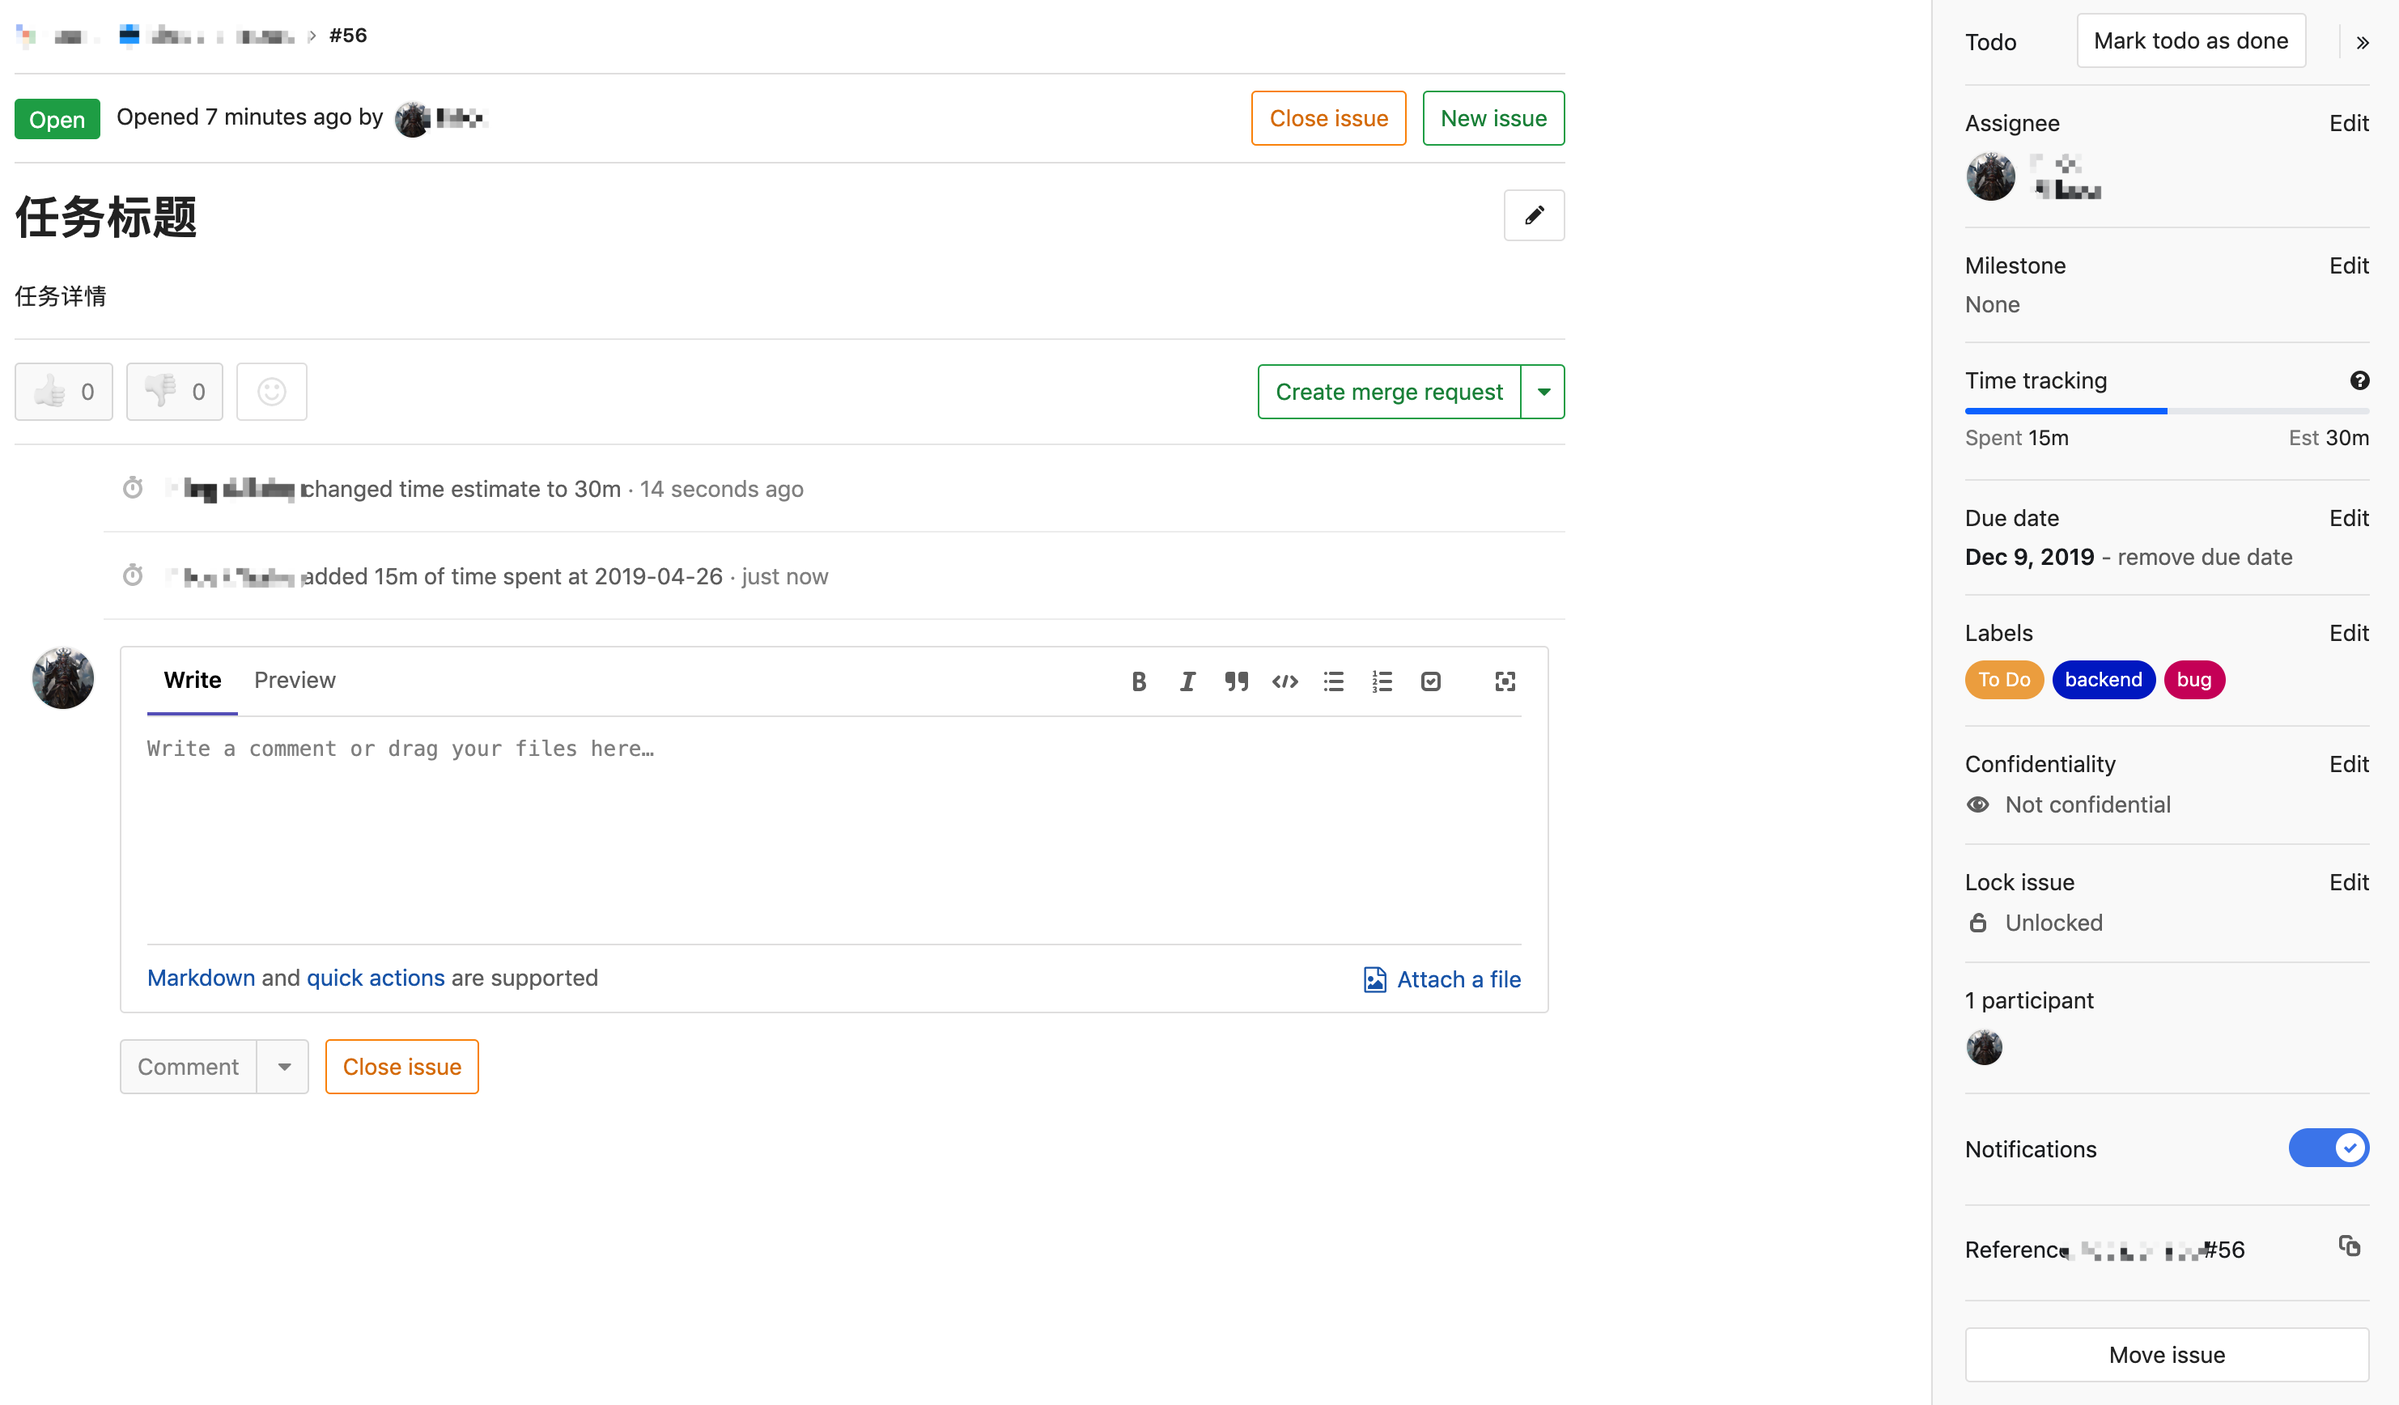
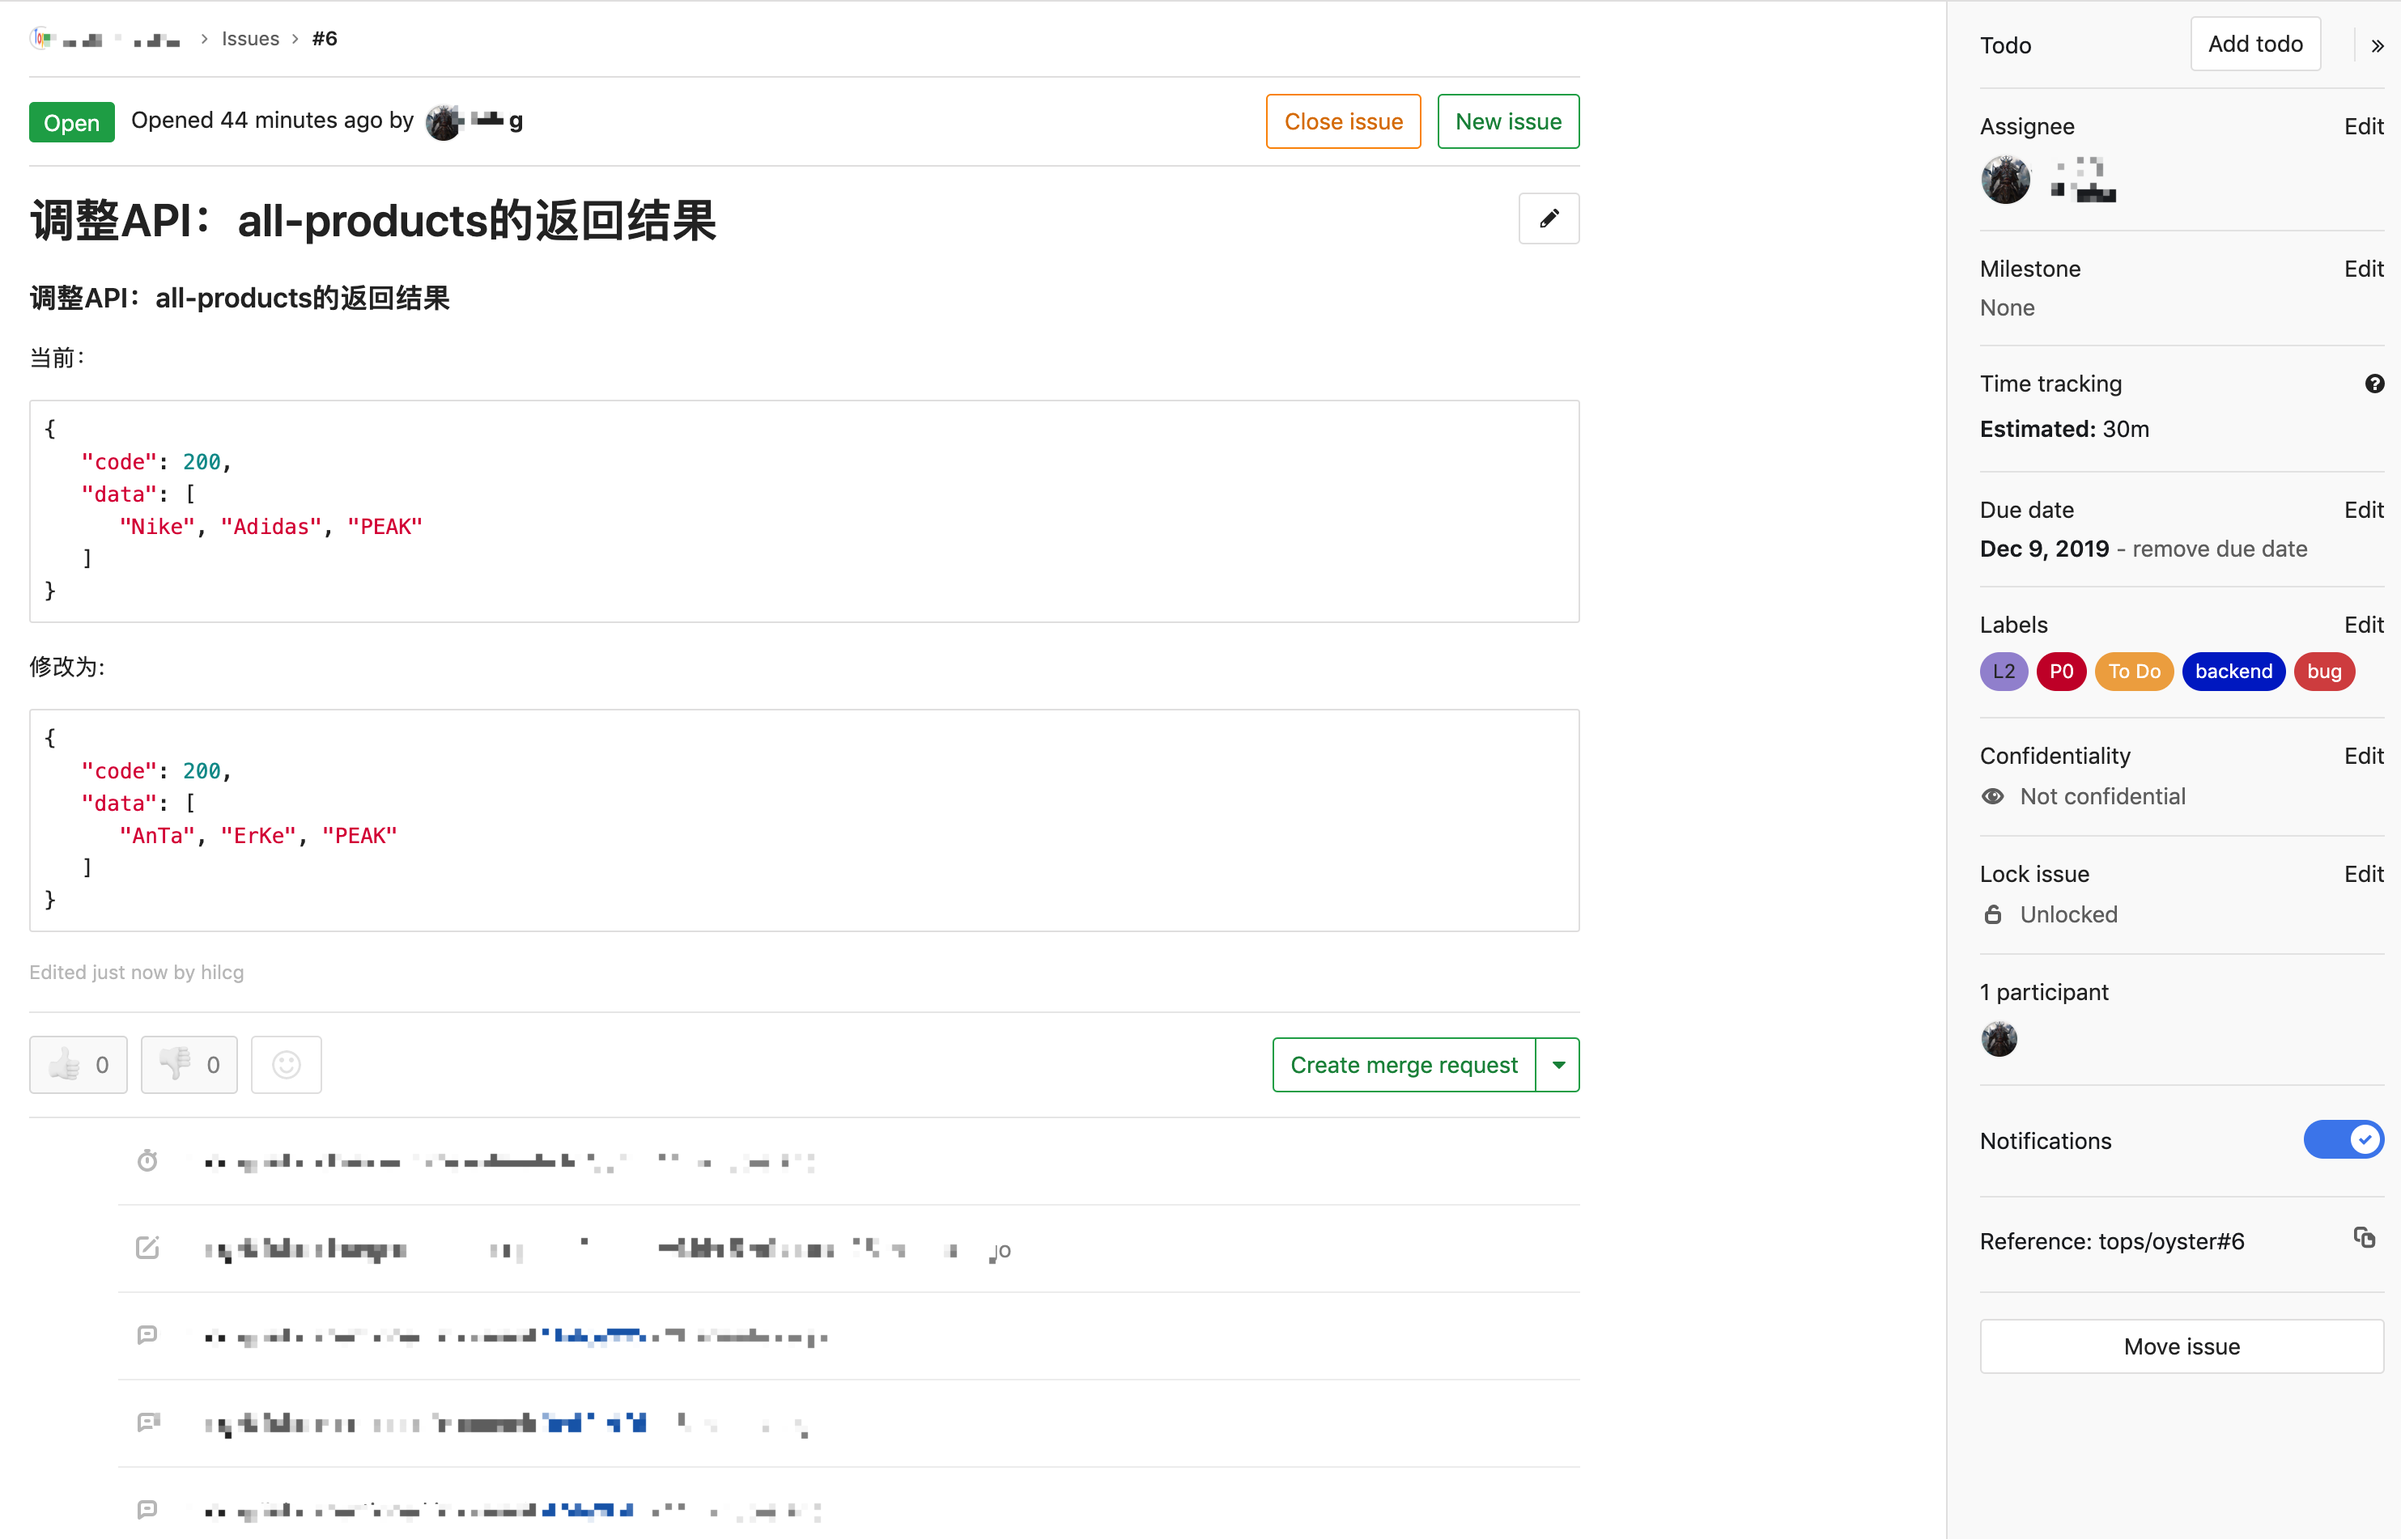
Finish chapter code_level

diff --git a/devops_practices/code_level/README.md b/devops_practices/code_level/README.md
@@ -13,8 +13,15 @@
 - 此次代码修改的具体说明（此次代码修改的原由）
 - 当前对外提供的服务的版本是哪一个
 - 知道当前提供服务的版本后，定位当前版本的代码
+- 服务发生修改后，准确定位代码的具体修改与修改原由
 
 本章节，将通过结合[Gitlab](https://about.gitlab.com/)与[kubernetes](https://kubernetes.io/)，通过一个完整的案例，展示发布前的准备，发布后的确认以及后期检查。
+
+### 章节概览
+- 任务创建
+- 代码提交
+- 版本确认
+- 反向检查
 
 注明：读者也可以使用[Jira](https://www.atlassian.com/software/jira), [Crucible](https://www.atlassian.com/software/crucible)等工具来完成任务跟踪与代码review等功能。
 
@@ -41,14 +48,107 @@
 
 通过以上介绍，我们可以看出，一个按照规定，严格定义的任务，为后期的管理带来了诸多益处。
 
-![1](images/issues.png)
+![issuces](images/issues.png)
 
 上图是一个任务案例截图，从中我们可以看到：
 
-- 任务编号：#56
+- 任务编号：#6
 - 任务受托人
-- 时间跟踪 - 预计完成时间，已用时间
-- 任务标签 - TO Do，backend，bug等
-- 任务标题已经任务详情
+- 时间跟踪 - 预计完成时间（30分钟）
+- 任务标签 - TO Do，backend，bug，P0，L2
+- 任务标题以及任务详情（此处只是为了演示，实际工作中可以根据模版，生成标准的标题与详情）
 
 #### 代码提交
+
+传统的代码提交，注释几乎没有标准。
+在这里，给大家推荐由[Udacity](https://udacity.github.io/git-styleguide/)推荐的注释标准。
+
+**编写好了注释后，该如何将此次代码修改关联到特定的任务呢？**
+
+```shell
+feat: Modify output of api: all-products
+
+Update output of api: all-products:
+at present:
+{
+   "code": 200,
+   "data": [
+      "Nike", "Adidas", "PEAK"
+   ]
+}
+after modification:
+{
+   "code": 200,
+   "data": [
+      "AnTa", "ErKe", "PEAK"
+   ]
+}
+
+Resloves: #6
+```
+1: 在提交的comment中，我们添加上述的注释。Gitlab将关联此提交到编码为#6的任务。
+![commit](images/commit.png)
+
+2: 点击提交的commit链接，可以跳转到此次提交的详情页。
+![commit2](images/commit2.png)
+通过上图我们可以看出此次代码提交的详情，用户提交的注释，代码对比，以及触发的流水线等等。
+
+#### 版本确认
+在上一个章节中，我们提交了代码，虽然触发了相应的流水线job，但是我们仍希望可以通过最简单的方式来确认当前服务是否已经部署完成。
+
+得益于Gitlab中，每一个pipeline都会有一个唯一的ID标识符，如下图。
+![allPipelines](images/allPipelines.png)
+可以看到我们最近一次的提交所引起的流水线job的ID为 **#10266**。  
+在这里，我们可以向每一个打包的镜像或者二进制包中添加一个环境变量或者文件，然后通过添加一个API来读取此变量：
+
+以Dockerfile为例：
+```shell
+FROM docker.io/python:3.6.4-slim
+
+MAINTAINER liubq "liubq919@163.com"
+
+USER root
+
+ENV APP_VERSION "BUILD_NO"
+```
+
+在上述的Dockerfile中，我们添加了环境变量，**APP_VERSION**，其具体的值，**BUILD_NO**，是每一次流水线的唯一的ID标识符。
+
+然后在服务的API中，添加一个获取当前版本的API，比如 **app.com/version**（在具体环境中，基于安全考虑，为每一个服务，添加相应的无规则字符串，比如**app.com/gg0836984kgmvkjgit/version**），当用户请求时，可以返回以下具体响应：
+
+```json
+{
+    "code": 200,
+    "data": {
+        "version": "build-10266"
+    }
+}
+```
+当然，具体的version值，可以根据公司的规定与实际情况，添加分支号，服务详情，负责人等等。
+
+通过version API的请求，我们可以看出，当前的版本是build ID为10266，基础此ID，我们可以确认，我们提交的代码，最近的一次#10266的流水线job，已经完成了服务的部署。
+
+**至此，当开发人员提交完代码，触发流水线后，可以通过调用获取version的API来确认，服务是否已经上线，减少了部门与人员之间的沟通成本。**
+
+#### 反向检查
+
+在日常工作中，如果有多人合作的项目，很容易发生功能冲突。
+
+当某位开发人员编写的功能，可能由于某些原因，被其它人员有意或者无意的修改了，无论是远程协同还是同地办公，都为沟通带来了成本，在传统模式中，首先确认代码提交人：
+
+- 同地：若人员在职，当面沟通，讨论方案
+- 同地：人员离职或者请假，无法当面沟通，沟通几乎停滞
+- 异地协同：发送邮件或者通过IM，来回沟通，沟通缓慢
+
+通过上述的情况，可以看出，无论是何种情况，与其它人员之间的沟通是必不可免的。
+
+在Devops中，我们可以通过反向检查的方式，追踪修改详情：
+1. 通过请求version API，确认当前版本以及build ID
+2. 通过build ID，追踪此次提交的是由及代码修改的详细记录，同时确认此提交绑定的任务号
+3. 通过任务号，查看任务详情，
+
+通过上述步骤，可以确认详细检查整个流程中的每一个步骤。在了解了这些内容后，再确定是否需要与代码提交人进行详细沟通。
+
+### 总结
+在本章节中，我们以一个大家熟悉的代码提交案例，详细介绍了每一个环节的步骤，做到归档，入库，追踪等。  
+做好正向过程中的每一个环节，也为后期的反向检查奠定了基础，同样为后期的统计，归档，员工审核，人员沟通等，都提供了帮助。  
